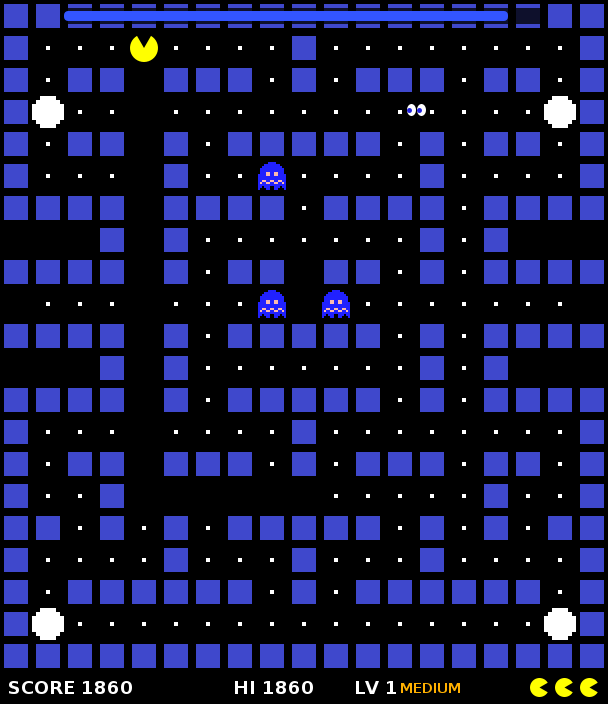
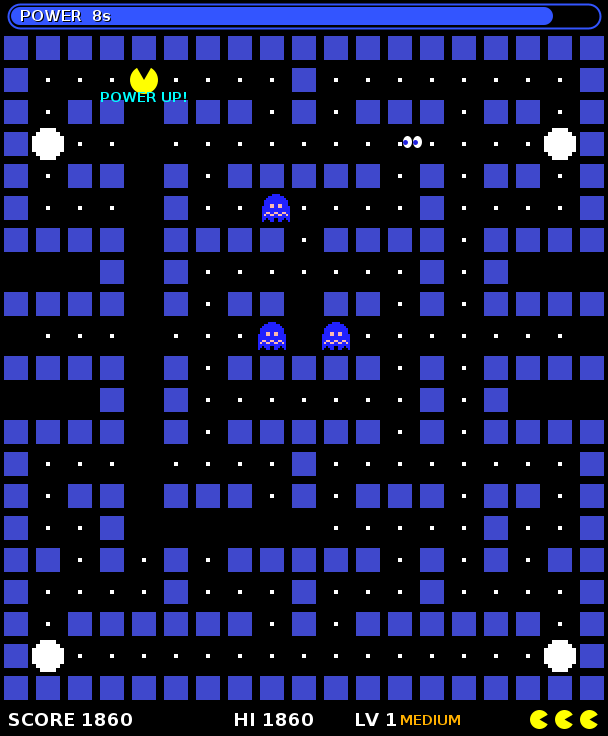
Move the power-up countdown above the maze
Instead of sitting on the maze's top wall, the POWER bar now has its
own strip above the board, so it's never mixed up with the walls:
- Java: the window gains a 32px strip above the maze for the bar
- Browser: the bar is a separate element between the score bar and
  the board, sized to the board's width; the board shrinks slightly
  to make room for it

Refresh the gameplay and phone screenshots in the README.

Claude-Session: https://claude.ai/code/session_01LTq8pwMj9xmqm4uRCDU9f2

diff --git a/web/index.html b/web/index.html
@@ -100,6 +100,43 @@
     touch-action: none;
   }
 
+  /* power-up countdown, shown above the maze while the ghosts are frightened */
+  .power {
+    position: relative;
+    flex: none;
+    height: 26px;
+    box-sizing: border-box;
+    border-radius: 13px;
+    border: 2px solid #3355ff;
+    background: var(--panel);
+    overflow: hidden;
+    visibility: hidden;
+  }
+  .power.on { visibility: visible; }
+  .power-fill {
+    position: absolute;
+    top: 3px;
+    bottom: 3px;
+    left: 3px;
+    border-radius: 8px;
+    background: #3355ff;
+  }
+  .power-label {
+    position: absolute;
+    left: 12px;
+    top: 50%;
+    transform: translateY(-50%);
+    font-family: var(--display);
+    font-size: 10px;
+    color: #fff;
+    text-shadow: 1px 1px 0 #000;
+    font-variant-numeric: tabular-nums;
+  }
+  .power.ending { border-color: #ffd52e; }
+  .power.ending .power-fill { background: #ffd52e; }
+  .power.ending.flash { border-color: #ff3b30; }
+  .power.ending.flash .power-fill { background: #ff3b30; }
+
   /* menus drawn over the play field */
   .overlay {
     position: absolute;
@@ -247,6 +284,10 @@
   </header>
 
   <main class="stage" id="stage">
+    <div class="power" id="power" aria-hidden="true">
+      <div class="power-fill" id="power-fill"></div>
+      <span class="power-label" id="power-label">POWER</span>
+    </div>
     <div class="screen" id="screen">
       <canvas id="game" aria-label="Pac-Man game board"></canvas>
 
@@ -959,32 +1000,6 @@ function drawGhost(g) {
   }
 }
 
-/** Labelled bar across the top wall counting down how long the ghosts stay frightened. */
-function drawTimerBar() {
-  const x = TILE, w = W - TILE * 2, y = 4, h = TILE - 8;
-  const ending = G.scaredTimer < SCARED_WARNING;
-  const flash = ending && (G.frame / 5 | 0) % 2 === 0;
-  ctx.fillStyle = 'rgba(0,0,0,.88)';
-  roundRect(x, y, w, h, h / 2);
-  ctx.fillStyle = !ending ? '#3355ff' : flash ? '#ff3b30' : '#ffd52e';
-  roundRect(x + 3, y + 3, (w - 6) * G.scaredTimer / DIFFS[G.difficulty].scared, h - 6, (h - 6) / 2);
-  ctx.strokeStyle = ctx.fillStyle;
-  ctx.lineWidth = 2;
-  ctx.beginPath();
-  if (ctx.roundRect) ctx.roundRect(x, y, w, h, h / 2); else ctx.rect(x, y, w, h);
-  ctx.stroke();
-
-  const label = 'POWER ' + Math.ceil(G.scaredTimer * FRAME_MS / 1000) + 's';
-  ctx.font = '11px "Press Start 2P", monospace';
-  ctx.textAlign = 'left';
-  ctx.textBaseline = 'middle';
-  ctx.fillStyle = '#000';
-  ctx.fillText(label, x + 13, y + h / 2 + 1);
-  ctx.fillStyle = '#fff';
-  ctx.fillText(label, x + 12, y + h / 2);
-  ctx.textBaseline = 'alphabetic';
-}
-
 function drawBanner(title, subtitle, color) {
   const cy = 13 * TILE;
   ctx.fillStyle = 'rgba(0,0,0,.78)';
@@ -1025,7 +1040,6 @@ function render() {
   if (fruit) {
     ctx.save(); ctx.translate(fruit.x, fruit.y); fruitKind.draw(ctx); ctx.restore();
   }
-  if (G.scaredTimer > 0 && G.state === 'PLAYING') drawTimerBar();
 
   const ended = G.state === 'GAME_OVER' || G.state === 'NAME_ENTRY';
   if (G.state !== 'LEVEL_CLEAR' && G.state !== 'DYING' && !ended) ghosts.forEach(drawGhost);
@@ -1044,6 +1058,26 @@ function render() {
   if (G.state === 'LEVEL_CLEAR') drawBanner('LEVEL ' + G.level + ' CLEAR!', null, '#29e6ff');
 
   updateHud();
+  updatePower();
+}
+
+const powerEl = document.getElementById('power');
+let powerCache = '';
+/** Countdown bar above the maze: how long the ghosts stay frightened. */
+function updatePower() {
+  const on = G.scaredTimer > 0 && G.state === 'PLAYING';
+  const ending = on && G.scaredTimer < SCARED_WARNING;
+  const flash = ending && (G.frame / 5 | 0) % 2 === 0;
+  const pct = on ? (G.scaredTimer / DIFFS[G.difficulty].scared) * 100 : 0;
+  const secs = Math.ceil(G.scaredTimer * FRAME_MS / 1000);
+  const key = [on, ending, flash, pct.toFixed(1), secs].join('|');
+  if (key === powerCache) return;
+  powerCache = key;
+  powerEl.classList.toggle('on', on);
+  powerEl.classList.toggle('ending', ending);
+  powerEl.classList.toggle('flash', flash);
+  document.getElementById('power-fill').style.width = `calc((100% - 6px) * ${pct / 100})`;
+  document.getElementById('power-label').textContent = 'POWER ' + secs + 's';
 }
 
 // ------------------------------------------------------------------ HUD and overlays
@@ -1207,9 +1241,11 @@ const stage = $('stage'), screenEl = $('screen');
 const pad = $('pad');
 function resize() {
   const padSpace = pad.offsetHeight ? pad.offsetHeight + 14 : 0;   // the d-pad only shows on touch screens
-  const s = Math.min(stage.clientWidth / W, (stage.clientHeight - padSpace) / H);
+  const powerSpace = powerEl.offsetHeight + 14;                      // the countdown strip above the maze
+  const s = Math.min(stage.clientWidth / W, (stage.clientHeight - padSpace - powerSpace) / H);
   const cw = Math.max(1, Math.floor(W * s)), ch = Math.max(1, Math.floor(H * s));
   screenEl.style.width = cw + 'px';
+  powerEl.style.width = cw + 'px';
   screenEl.style.height = ch + 'px';
   const dpr = window.devicePixelRatio || 1;
   canvas.width = Math.round(cw * dpr);

diff --git a/Pacman/src/PacMan.java b/Pacman/src/PacMan.java
@@ -167,6 +167,8 @@ public class PacMan extends JPanel implements ActionListener, KeyListener {
     private final int boardWidth = columnCount * tileSize;
     private final int boardHeight = rowCount * tileSize;
     private final int hudHeight = tileSize;
+    /** strip above the maze where the power-up countdown appears */
+    private final int powerBarHeight = tileSize;
 
     private static final int FRAME_MS = 25;
     private static final int PAC_SPEED = 4; // must divide tileSize
@@ -225,7 +227,7 @@ public class PacMan extends JPanel implements ActionListener, KeyListener {
     private int level = 1;
 
     PacMan() {
-        setPreferredSize(new Dimension(boardWidth, boardHeight + hudHeight));
+        setPreferredSize(new Dimension(boardWidth, powerBarHeight + boardHeight + hudHeight));
         setBackground(Color.BLACK);
         addKeyListener(this);
         setFocusable(true);
@@ -653,6 +655,11 @@ public class PacMan extends JPanel implements ActionListener, KeyListener {
         Graphics2D g2 = (Graphics2D) g;
         g2.setRenderingHint(RenderingHints.KEY_ANTIALIASING, RenderingHints.VALUE_ANTIALIAS_ON);
         g2.setRenderingHint(RenderingHints.KEY_TEXT_ANTIALIASING, RenderingHints.VALUE_TEXT_ANTIALIAS_ON);
+        if (scaredTimer > 0 && (state == State.PLAYING || paused)) {
+            drawScaredTimerBar(g2);
+        }
+        // everything else is drawn below the power-up strip
+        g2.translate(0, powerBarHeight);
         draw(g2);
     }
 
@@ -681,9 +688,6 @@ public class PacMan extends JPanel implements ActionListener, KeyListener {
             fruitKind.draw(g, fruit.x, fruit.y, tileSize, cherryImage);
         }
 
-        if (scaredTimer > 0 && (state == State.PLAYING || paused)) {
-            drawScaredTimerBar(g);
-        }
 
         boolean gameEnded = state == State.GAME_OVER || state == State.NAME_ENTRY;
         if (state != State.LEVEL_CLEAR && state != State.DYING && !gameEnded) {
@@ -747,12 +751,12 @@ public class PacMan extends JPanel implements ActionListener, KeyListener {
         }
     }
 
-    /** Labelled bar across the top wall counting down how long the ghosts stay frightened. */
+    /** Labelled bar in the strip above the maze counting down how long the ghosts stay frightened. */
     private void drawScaredTimerBar(Graphics2D g) {
-        int trackX = tileSize;
-        int trackW = boardWidth - tileSize * 2;
+        int trackX = 8;
+        int trackW = boardWidth - 16;
         int y = 4;
-        int h = tileSize - 8;
+        int h = powerBarHeight - 8;
         boolean ending = scaredTimer < SCARED_WARNING_FRAMES;
         boolean flash = ending && (frame / 5) % 2 == 0;
         Color fill = !ending ? new Color(0x3355FF) : flash ? new Color(0xFF3B30) : new Color(0xFFD52E);

diff --git a/README.md b/README.md
@@ -114,7 +114,7 @@ The workflow in `.github/workflows/pages.yml` publishes the `web` folder to GitH
 
 Eat every pellet in the maze to clear the level, and don't let a ghost catch you.
 Eat a **power pellet** (the big white dots in the corners) and the ghosts turn blue and run away.
-That's your chance to eat them, but only for a few seconds: the **POWER** bar at the top of the maze counts down
+That's your chance to eat them, but only for a few seconds: the **POWER** bar just above the maze counts down
 how long you have left, and flashes yellow and red just before the ghosts turn dangerous again.
 
 ### Scoring
